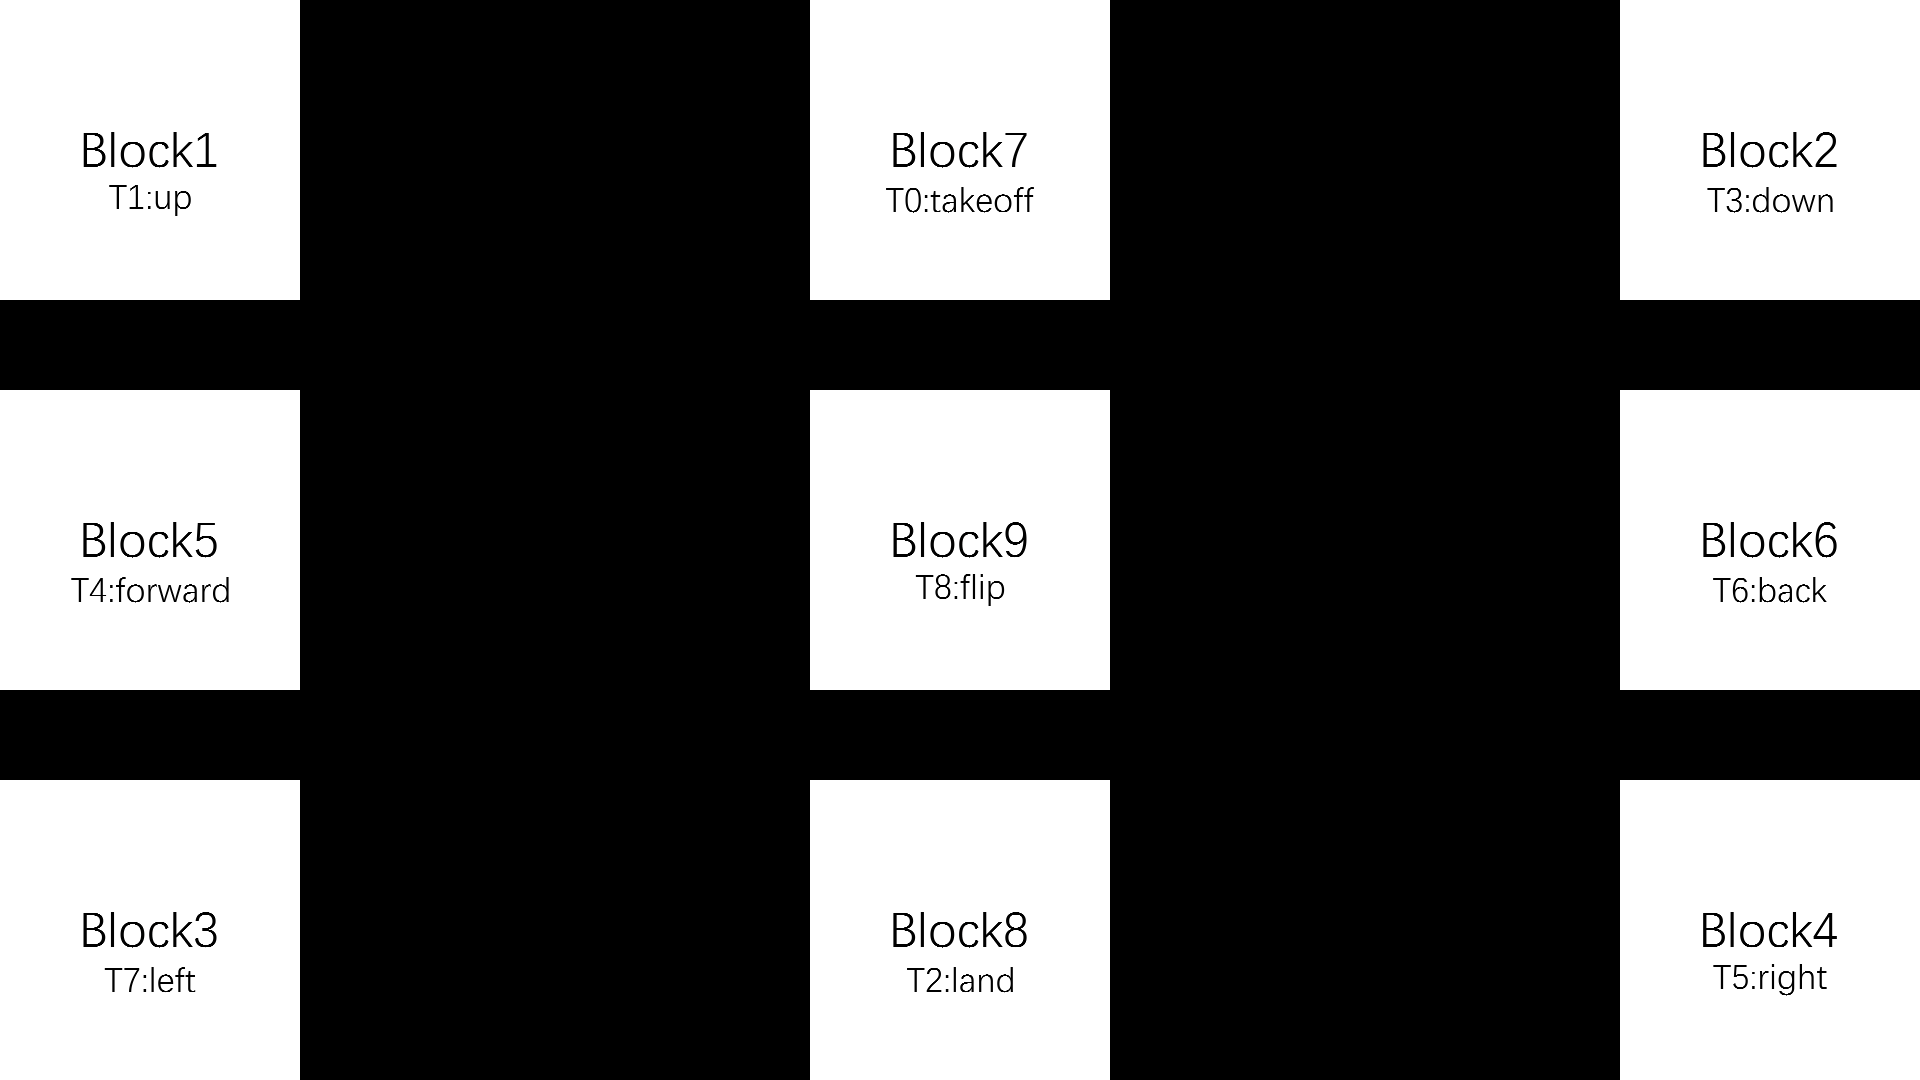
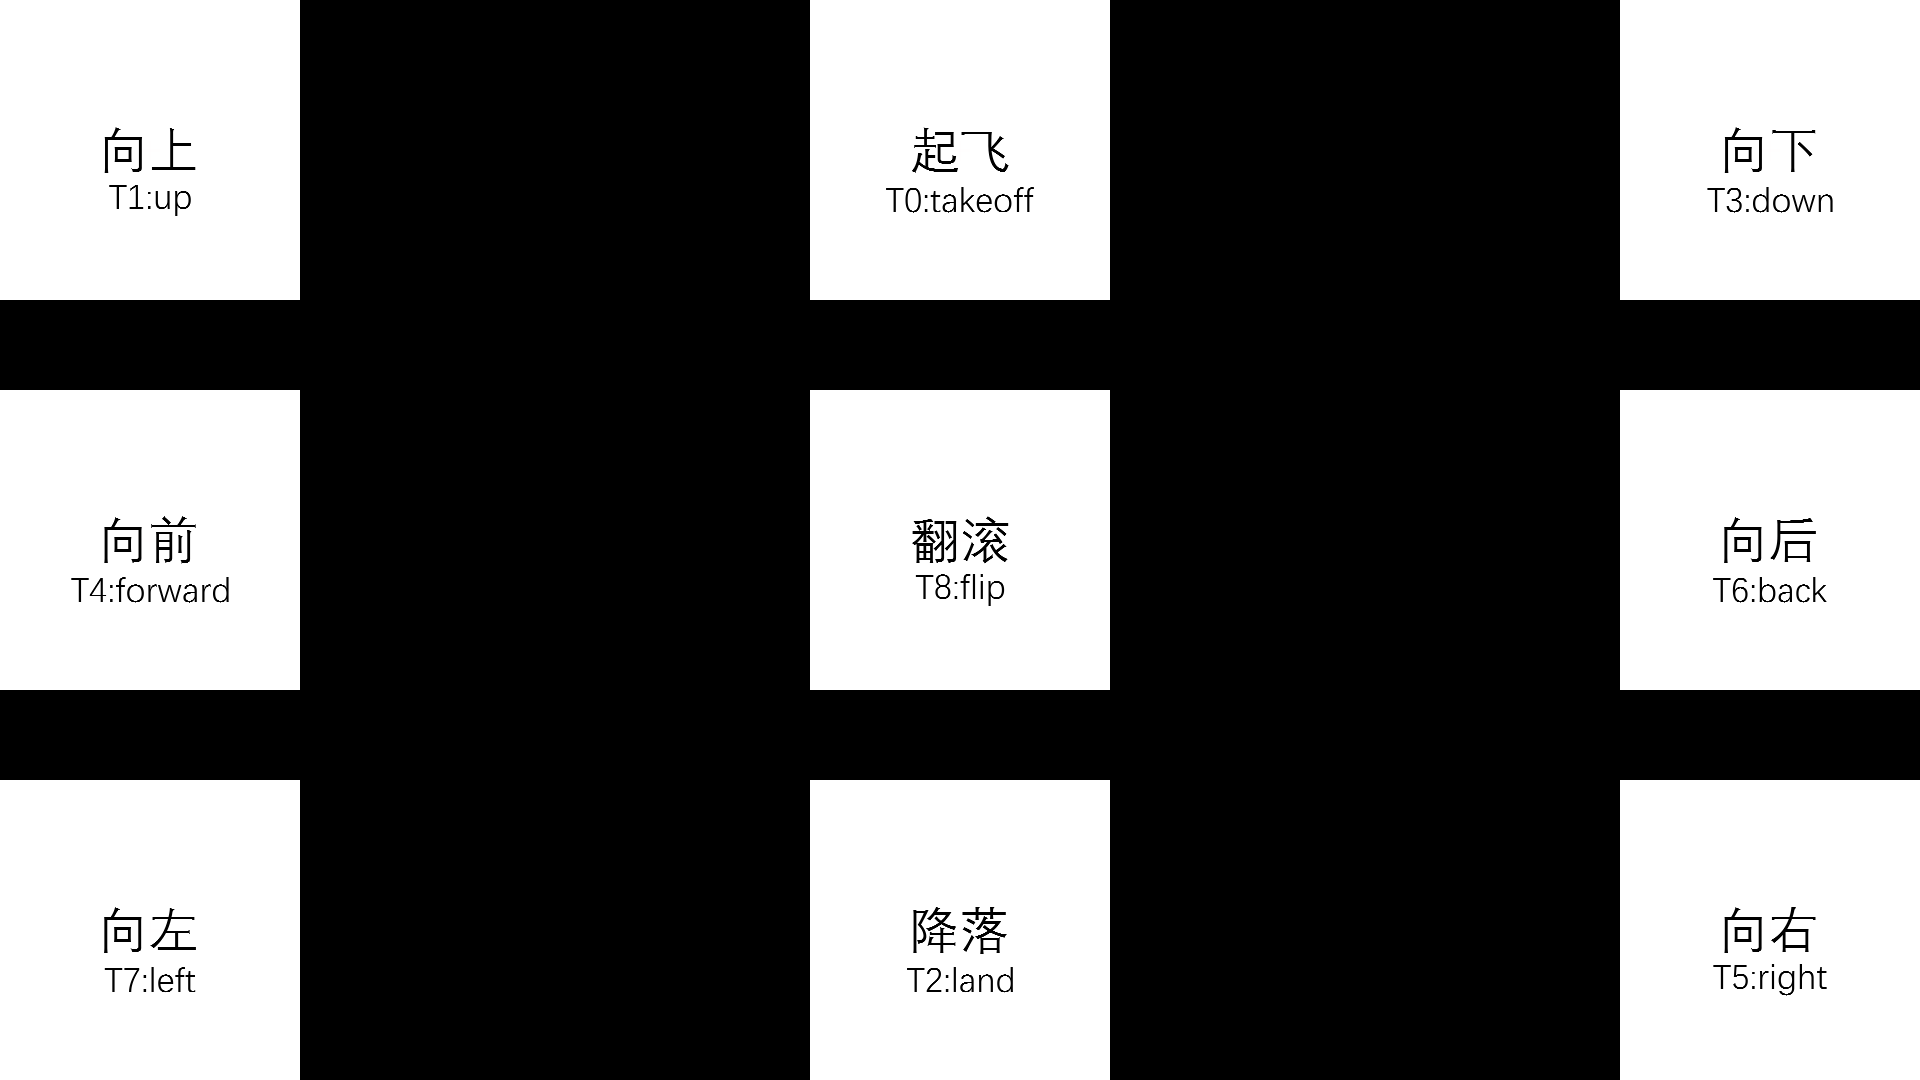
1

diff --git a/src/behaviour/handler.py b/src/behaviour/handler.py
@@ -13,19 +13,6 @@ from engine.api.behaviour.handler import command
 
 STEP_DISTANCE = 50
 
-"""
-export const outputResultMap: Record<string, number> = {
-    "up": 1,
-    "down": 3,
-    "left": 7,
-    "right": 5,
-    "forward": 4,
-    "back": 6,
-    "takeoff": 0,
-    "land": 2,
-    "flip": 8,
-};"""
-
 
 @command(0)
 def zero():
